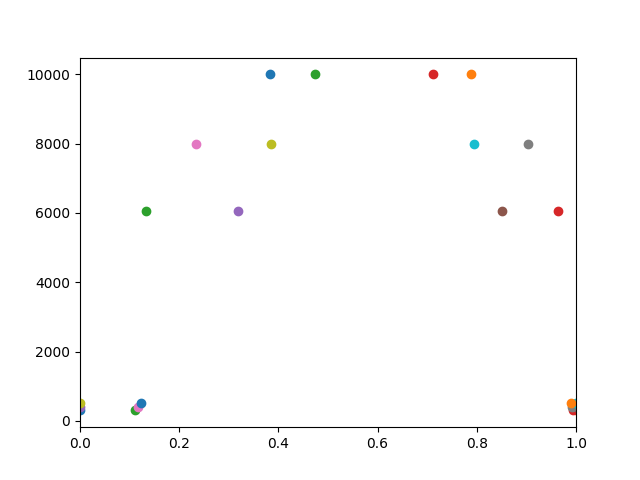
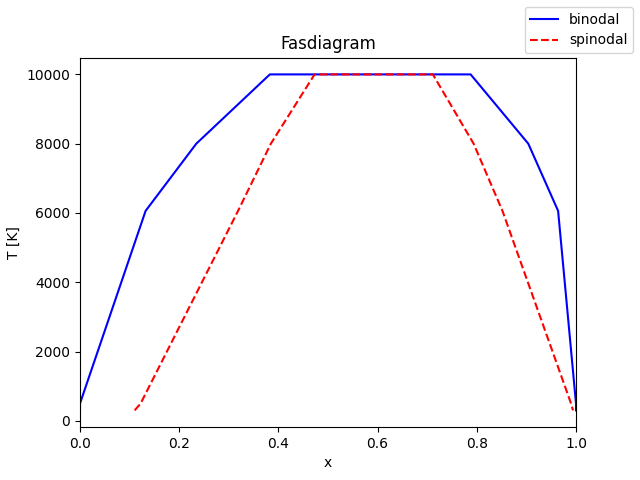
nu plottas ordentligt fasdiagram

diff --git a/src/berakningsfysik/subsystem_python/plot_phase_diagram.py b/src/berakningsfysik/subsystem_python/plot_phase_diagram.py
@@ -5,53 +5,65 @@ import pandas as pd
 import numpy as np
 import matplotlib.pyplot as plt
 from build_dataframe import temps
+from find_phase_curves import columns
+
+
+
 
 def main():
-    "Plottar fasdiagram."
+
+    print( "Plottar fasdiagram.")
     df = pd.read_csv("curves.csv")
 
     fig = plt.figure()
+
+    plot_curve(df, "binodal", columns[1], columns[2])
+    plot_curve(df, "spinodal", columns[3], columns[4])
+
+    
     plt.xlim(0, 1)
-
-    print("kolumner: ", df.columns)
-
-    print(df[df.columns[0]][0]) #printar 300 eftersom detta är den första tempen
-    print("index: ", df.index)
-
-    for index in df.index:
-        
-        temp = float(df[df.columns[0]][index])
-        print("temp: ", temp)
-        
-        #plt.plot(np.arange([0, 0.2, 0.3, 0.5, 0.6, 0.9]), temps)
-        for column in df.columns[1:]:
-            comps = df[column][index]
-            new_comps = turn_string_to_list(comps)
-            
-            #print(comps.size)
-            plt.plot(new_comps, [temp]*len(new_comps), "o")
-            
-    for column in df.columns[1:]:
-        comps_dataframe = df[column]
-        comps = []
-        max_num_comps = 1
-        for index, element in enumerate(comps_dataframe):
-            element_list = turn_string_to_list(element)
-            #for comps in element_list:
-                
-            if len(element_list) > max_num_comps:
-                max_num_comps = len(element_list)
-            comps.append(element_list)
-            print(element_list)
-        
-
-
-            
-
-        
-        
+    plt.xlabel("x")
+    plt.ylabel("T [K]")
+    plt.title("Fasdiagram")
+    fig.legend()
 
     plt.savefig("plots/phase_diagram")
+
+
+def plot_curve(df, curve_type, column1, column2):
+    """Sätter ihop kolumnerna column1 och column2 
+    och plottar mot temperaturen.
+    df är dataframe från curves.csv
+    curve_type är "spinodal" eller "binodal" """
+
+    line_styles = {"spinodal": "r--", "binodal": "b-"}
+
+    main_list1, max_num_elements1 = return_comps_main_list(df, column1)
+    main_list2, max_num_elements2 = return_comps_main_list(df, column2)
+
+    main_list2.reverse()
+    max_num_elements = max(max_num_elements1, max_num_elements2)
+
+    for j in range(0, max_num_elements):
+
+            x_values = []
+            y_values =[]
+
+            for index, comps_list in enumerate(main_list1):
+                if len(comps_list) > j:
+                    if not np.isnan(comps_list[j]):
+                        x_values.append(comps_list[j])
+                        y_values.append(temps[index])
+                
+            for index, comps_list in enumerate(main_list2):
+                if len(comps_list) > j:
+                    if not np.isnan(comps_list[j]):
+                        x_values.append(comps_list[j])
+                        y_values.append(temps[-index-1])
+                
+            plt.plot(x_values, y_values, line_styles[curve_type], label = curve_type)
+
+
 
 def turn_string_to_list(string):
     """Gör en sträng från curves.csv av formen
@@ -68,6 +80,26 @@ def turn_string_to_list(string):
             comps_list[index] = float(element)
     
     return comps_list
+
+
+def return_comps_main_list(df, column):
+    """Tar en kolumn från curves.csv, t.ex "xa",
+    och omvandlar den från sträng till en nästlad lista
+    (som ser ut som kolumnen i csv-filen). 
+    Returnerar listan och längden på den av de inre
+    listorna som är längst."""
+
+    comps_main_list = []
+    max_num_elements = 1
+    for index in df.index:
+            
+        comps_list = turn_string_to_list(df[column][index])
+        comps_main_list.append(comps_list)
+        if len(comps_list) > max_num_elements:
+            max_num_elements = len(comps_list)
+
+    return comps_main_list, max_num_elements
+
 
 if __name__ == "__main__":
     main()

diff --git a/src/berakningsfysik/subsystem_python/generate_phase_curves.py b/src/berakningsfysik/subsystem_python/generate_phase_curves.py
@@ -1,0 +1,42 @@
+"""Denna fil används endast för att generera spindodal- och
+binodalgränser, för att testa plot_phase_diagram.py.
+Kompositioenrna skrivs till generated_curves.csv"""
+
+from scipy.spatial import ConvexHull, convex_hull_plot_2d
+import pandas as pd
+import numpy as np
+import matplotlib.pyplot as plt
+from build_dataframe import temps
+
+columns = ["T", "xa", "xb", "spinodal_xa", "spinodal_xb"]
+
+def main():
+
+    with open("generated_curves.csv", "w", newline="") as file:
+
+        file.write(columns[0])
+
+        for column in columns[1:]:
+            file.write(","+column)
+        file.write("\n")
+
+        for T in temps:
+            file.write(str(T)+",\n")
+
+    file.close()
+    xa_list = [[0, 0.37], [0, 0.4], [0, 0.42], [0.2, 0.5], [0.25, 0.55], [0.3, 0.6], [np.nan, np.nan]]
+    xb_list = [[0.37, 1], [0.4, 1], [0.42, 1], [0.5, 0.9], [0.55, 0.7], [0.6, 0.8], [np.nan, np.nan]]
+    spinodal_xa_list = [[0.1, 0.4], [0.15, 0.42], [0.2, 0.44], [0.3, 0.52], [0.35, 0.57], [0.4, 0.62], [np.nan, np.nan]]
+    spinodal_xb_list = [[0.15, 0.45], [0.2, 0.47], [0.25, 0.49], [0.35, 0.57], [0.4, 0.62], [0.45, 0.67], [np.nan, np.nan]]
+
+    df_curves = pd.read_csv("generated_curves.csv")
+
+    df_curves["xa"] = xa_list
+    df_curves["xb"] = xb_list
+    df_curves["spinodal_xa"] = spinodal_xa_list
+    df_curves["spinodal_xb"] = spinodal_xb_list
+
+    df_curves.to_csv("generated_curves.csv", index=False)
+
+if __name__ == "__main__":
+    main()

diff --git a/src/berakningsfysik/subsystem_python/find_phase_curves.py b/src/berakningsfysik/subsystem_python/find_phase_curves.py
@@ -1,5 +1,5 @@
 """Denna fil hittar kompositioner som gäller vid binodal- och
-spinodal-kurvorna, och skriver dessa till en csv-fil, curves.csv"""
+spinodal-kurvorna, och skriver dessa till en csv-fil, curves.csv."""
 
 from scipy.spatial import ConvexHull, convex_hull_plot_2d
 import pandas as pd
@@ -41,6 +41,7 @@ def main():
         xb_list.append(comps_list[1])
         spinodal_xa_list.append(comps_list[2])
         spinodal_xb_list.append(comps_list[3])
+
 
     df_curves = pd.read_csv("curves.csv")
 
